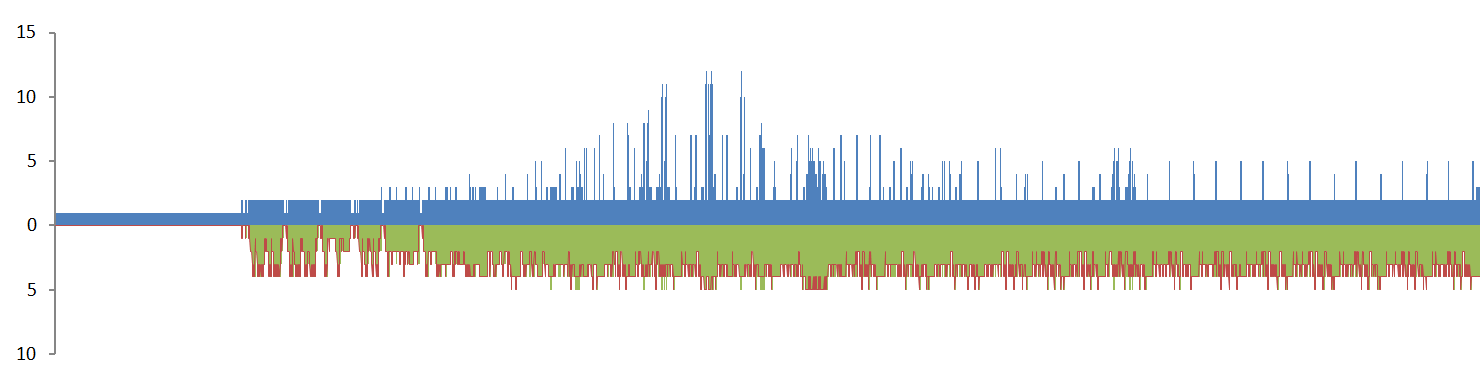
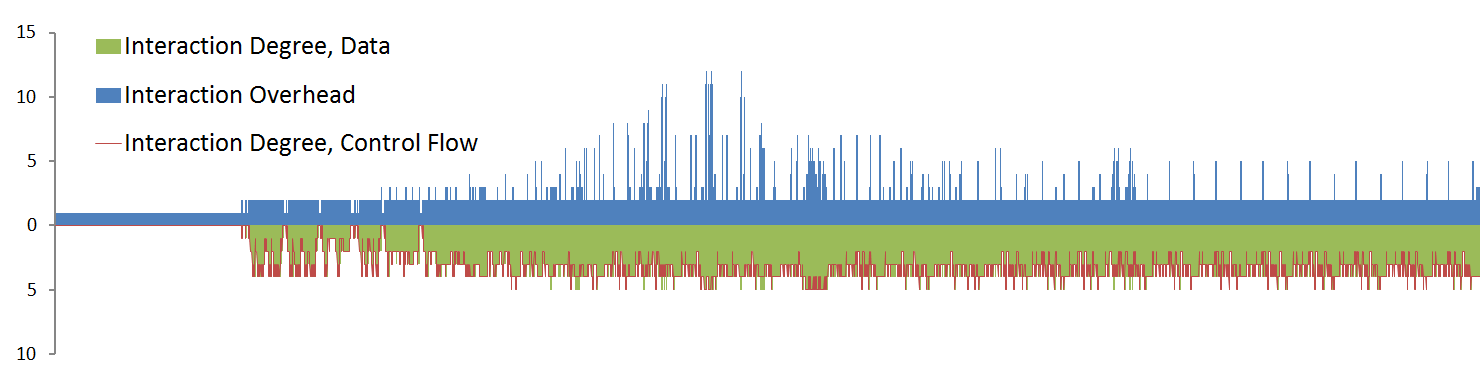
add Jetty

Changed region(s): [[0.0622, 0.3411, 0.3419, 0.4031], [0.0622, 0.093, 0.2797, 0.155], [0.0622, 0.2171, 0.2486, 0.2791]]

diff --git a/_includes/README.md b/_includes/README.md
@@ -105,6 +105,10 @@ Distributions of interactions during program execution (blue bars represent inte
 ### Checkstyle
 <a href="/resources/VarexJ/Traces/Checkstyle.png"><img alt="Checkstyle" src="/resources/VarexJ/Traces/Checkstyle.png" width="800"/></a>
 
+### Checkstyle
+<a href="/resources/VarexJ/Traces/Jetty.png"><img alt="Checkstyle" src="/resources/VarexJ/Traces/Jetty.png" width="800"/></a>
+
+
 ##Credits
 
 * [Jens Meinicke](http://wwwiti.cs.uni-magdeburg.de/~meinicke/) (University of Magdeburg, Germany, project lead)
